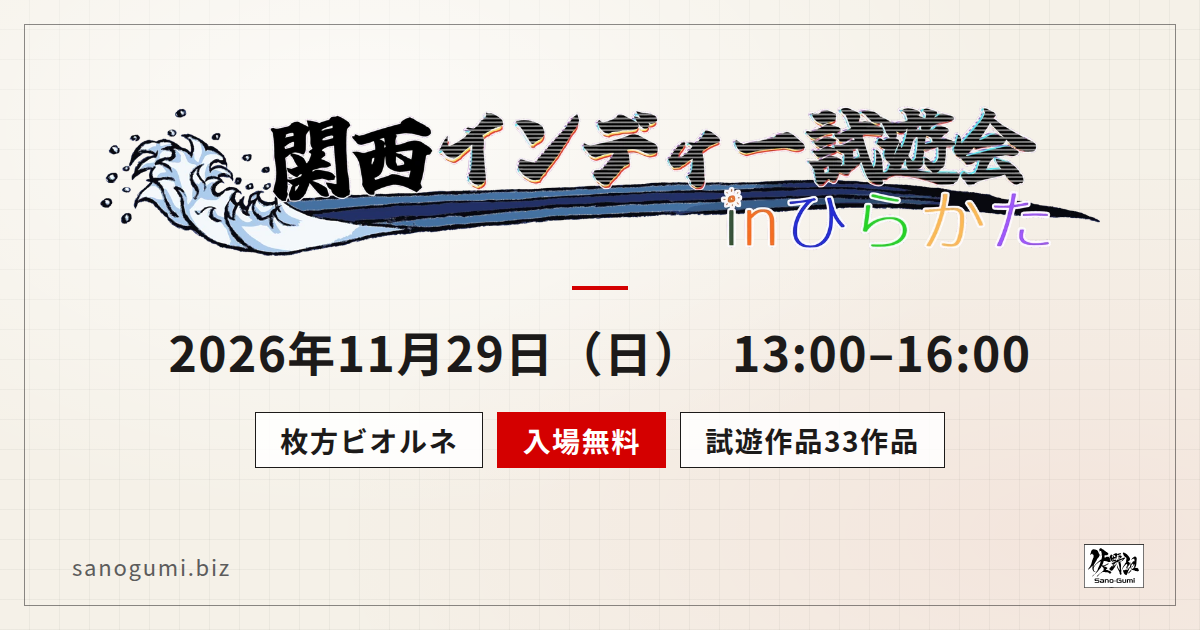
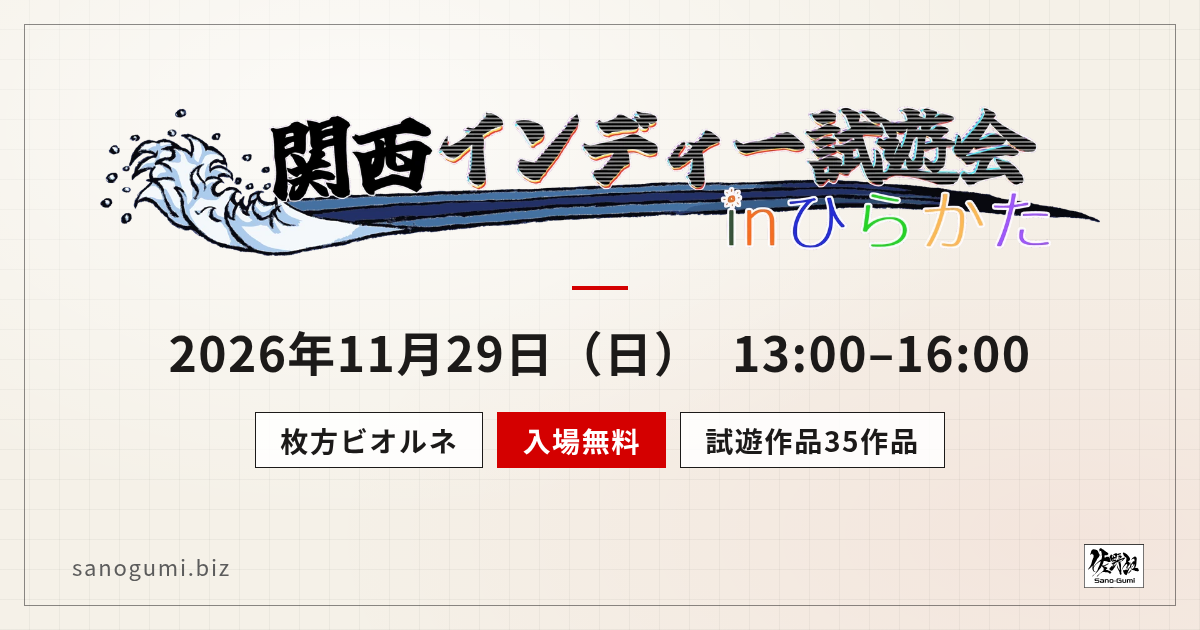
関西インディー試遊会の作品一覧に『IRONWAKE』と『PW7A』を載せ、35作品にする
正本 sanogumi 0e94cb1（PR #215）。会場出展の PW7A と、代理展示の IRONWAKE（マーケティングパートナー：株式会社佐野組）を載せる。来場者ページ（visit/）と出展者向けのページは写していない。フォームの URL は変えていない。

diff --git a/events/index.html b/events/index.html
@@ -243,8 +243,8 @@
           <dt>内容</dt>
           <dd>インディーゲームの試遊（13:00〜）と LT（15:00〜）。入場無料</dd>
           <dt>出展作品</dt>
-          <!-- 件数は data/events/hirakata-2026/exhibitors.json の approval=yes かつ publish=yes（2026-11-15 時点 33作品）。一覧は来場者ページ（tools/expo/build_visit.py で生成） -->
-          <dd data-short="33作品">33作品（2026年11月15日時点。<a href="/events/kansai-indie-shiyukai-1/visit/">来場者向けページで一覧</a>）</dd>
+          <!-- 件数は data/events/hirakata-2026/exhibitors.json の approval=yes かつ publish=yes（2026-11-22 時点 35作品）。一覧は来場者ページ（tools/expo/build_visit.py で生成） -->
+          <dd data-short="35作品">35作品（2026年11月22日時点。<a href="/events/kansai-indie-shiyukai-1/visit/">来場者向けページで一覧</a>）</dd>
         </dl>
         <ul class="event-links">
           <li><a href="/events/kansai-indie-shiyukai-1/">イベントのページ</a></li>

diff --git a/assets/css/expo-visit.css b/assets/css/expo-visit.css
@@ -158,6 +158,7 @@
 }
 .vg-t { margin: 0; font-size: 1.02rem; font-weight: 900; letter-spacing: 0.03em; line-height: 1.4; min-height: 2.8em; color: #fff; word-break: auto-phrase; }
 .expo .vg-g, .expo .vg-by { margin: 0.2rem 0 0; font-size: 0.82rem; font-weight: 700; color: var(--sky); letter-spacing: 0.03em; }
+.expo .vg-partner { margin: 0.15rem 0 0; font-size: 0.75rem; font-weight: 700; color: var(--sky); letter-spacing: 0.03em; }
 .expo .vg-blurb { margin: 0.4rem 0 0; font-size: 0.82rem; font-weight: 500; line-height: 1.65; color: rgba(255, 255, 255, 0.9); white-space: pre-line; display: -webkit-box; -webkit-box-orient: vertical; -webkit-line-clamp: 6; overflow: hidden; }
 .expo .vg-fan { margin: 0.4rem 0 0; font-size: 0.78rem; font-weight: 700; color: #ffd7a8; }
 .vg-ph--empty { aspect-ratio: 16 / 9; display: flex; align-items: center; justify-content: center; background: #24315f; color: #fff; padding: 0.8rem; text-align: center; }
